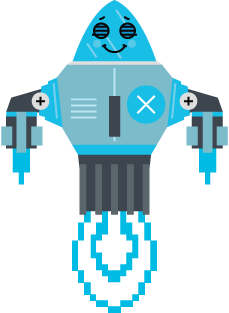
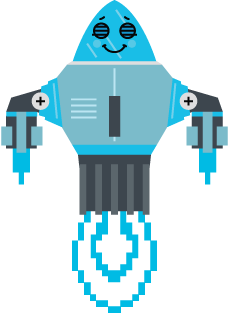
created simple bot with hotfixes and many bugs

Changed region(s): [[0.5502, 0.2588, 0.7336, 0.4026]]

diff --git a/vendor/js/ApiAi.min.js b/vendor/js/ApiAi.min.js
@@ -1,0 +1,17 @@
+/**
+ * Copyright 2017 Google Inc. All Rights Reserved.
+ *
+ * Licensed under the Apache License, Version 2.0 (the "License");
+ * you may not use this file except in compliance with the License.
+ * You may obtain a copy of the License at
+ *
+ *      http://www.apache.org/licenses/LICENSE-2.0
+ *
+ * Unless required by applicable law or agreed to in writing, software
+ * distributed under the License is distributed on an "AS IS" BASIS,
+ * WITHOUT WARRANTIES OR CONDITIONS OF ANY KIND, either express or implied.
+ * See the License for the specific language governing permissions and
+ * limitations under the License.
+ */
+ 
+var ApiAi=function(t){function __webpack_require__(n){if(e[n])return e[n].exports;var r=e[n]={i:n,l:!1,exports:{}};return t[n].call(r.exports,r,r.exports,__webpack_require__),r.l=!0,r.exports}var e={};return __webpack_require__.m=t,__webpack_require__.c=e,__webpack_require__.i=function(t){return t},__webpack_require__.d=function(t,e,n){__webpack_require__.o(t,e)||Object.defineProperty(t,e,{configurable:!1,enumerable:!0,get:n})},__webpack_require__.n=function(t){var e=t&&t.__esModule?function getDefault(){return t.default}:function getModuleExports(){return t};return __webpack_require__.d(e,"a",e),e},__webpack_require__.o=function(t,e){return Object.prototype.hasOwnProperty.call(t,e)},__webpack_require__.p="/target/",__webpack_require__(__webpack_require__.s=8)}([function(t,e,n){"use strict";Object.defineProperty(e,"__esModule",{value:!0});!function(t){var e;!function(t){t[t.EN="en"]="EN",t[t.DE="de"]="DE",t[t.ES="es"]="ES",t[t.PT_BR="pt-BR"]="PT_BR",t[t.ZH_HK="zh-HK"]="ZH_HK",t[t.ZH_CN="zh-CN"]="ZH_CN",t[t.ZH_TW="zh-TW"]="ZH_TW",t[t.NL="nl"]="NL",t[t.FR="fr"]="FR",t[t.IT="it"]="IT",t[t.JA="ja"]="JA",t[t.KO="ko"]="KO",t[t.PT="pt"]="PT",t[t.RU="ru"]="RU",t[t.UK="uk"]="UK"}(e=t.AVAILABLE_LANGUAGES||(t.AVAILABLE_LANGUAGES={})),t.VERSION="2.0.0-beta.20",t.DEFAULT_BASE_URL="https://api.api.ai/v1/",t.DEFAULT_API_VERSION="20150910",t.DEFAULT_CLIENT_LANG=e.EN}(e.ApiAiConstants||(e.ApiAiConstants={}))},function(t,e,n){"use strict";var r=this&&this.__extends||function(){var t=Object.setPrototypeOf||{__proto__:[]}instanceof Array&&function(t,e){t.__proto__=e}||function(t,e){for(var n in e)e.hasOwnProperty(n)&&(t[n]=e[n])};return function(e,n){function __(){this.constructor=e}t(e,n),e.prototype=null===n?Object.create(n):(__.prototype=n.prototype,new __)}}();Object.defineProperty(e,"__esModule",{value:!0});var i=function(t){function ApiAiBaseError(e){var n=t.call(this,e)||this;return n.message=e,n.stack=(new Error).stack,n}return r(ApiAiBaseError,t),ApiAiBaseError}(Error);e.ApiAiBaseError=i;var o=function(t){function ApiAiClientConfigurationError(e){var n=t.call(this,e)||this;return n.name="ApiAiClientConfigurationError",n}return r(ApiAiClientConfigurationError,t),ApiAiClientConfigurationError}(i);e.ApiAiClientConfigurationError=o;var s=function(t){function ApiAiRequestError(e,n){void 0===n&&(n=null);var r=t.call(this,e)||this;return r.message=e,r.code=n,r.name="ApiAiRequestError",r}return r(ApiAiRequestError,t),ApiAiRequestError}(i);e.ApiAiRequestError=s},function(t,e,n){"use strict";Object.defineProperty(e,"__esModule",{value:!0});var r=n(1),i=n(7),o=function(){function Request(t,e){this.apiAiClient=t,this.options=e,this.uri=this.apiAiClient.getApiBaseUrl()+"query?v="+this.apiAiClient.getApiVersion(),this.requestMethod=i.default.Method.POST,this.headers={Authorization:"Bearer "+this.apiAiClient.getAccessToken()},this.options.lang=this.apiAiClient.getApiLang(),this.options.sessionId=this.apiAiClient.getSessionId()}return Request.handleSuccess=function(t){return Promise.resolve(JSON.parse(t.responseText))},Request.handleError=function(t){var e=new r.ApiAiRequestError(null);try{var n=JSON.parse(t.responseText);e=n.status&&n.status.errorDetails?new r.ApiAiRequestError(n.status.errorDetails,n.status.code):new r.ApiAiRequestError(t.statusText,t.status)}catch(n){e=new r.ApiAiRequestError(t.statusText,t.status)}return Promise.reject(e)},Request.prototype.perform=function(t){void 0===t&&(t=null);var e=t||this.options;return i.default.ajax(this.requestMethod,this.uri,e,this.headers).then(Request.handleSuccess.bind(this)).catch(Request.handleError.bind(this))},Request}();e.default=o},function(t,e,n){"use strict";Object.defineProperty(e,"__esModule",{value:!0});var r=n(0),i=n(1),o=n(5),s=n(6);!function __export(t){for(var n in t)e.hasOwnProperty(n)||(e[n]=t[n])}(n(4));var u=n(0);e.ApiAiConstants=u.ApiAiConstants;var _=function(){function ApiAiClient(t){if(!t||!t.accessToken)throw new i.ApiAiClientConfigurationError("Access token is required for new ApiAi.Client instance");this.accessToken=t.accessToken,this.apiLang=t.lang||r.ApiAiConstants.DEFAULT_CLIENT_LANG,this.apiVersion=t.version||r.ApiAiConstants.DEFAULT_API_VERSION,this.apiBaseUrl=t.baseUrl||r.ApiAiConstants.DEFAULT_BASE_URL,this.sessionId=t.sessionId||this.guid()}return ApiAiClient.prototype.textRequest=function(t,e){if(void 0===e&&(e={}),!t)throw new i.ApiAiClientConfigurationError("Query should not be empty");return e.query=t,new s.default(this,e).perform()},ApiAiClient.prototype.eventRequest=function(t,e,n){if(void 0===e&&(e={}),void 0===n&&(n={}),!t)throw new i.ApiAiClientConfigurationError("Event name can not be empty");return n.event={name:t,data:e},new o.EventRequest(this,n).perform()},ApiAiClient.prototype.getAccessToken=function(){return this.accessToken},ApiAiClient.prototype.getApiVersion=function(){return this.apiVersion?this.apiVersion:r.ApiAiConstants.DEFAULT_API_VERSION},ApiAiClient.prototype.getApiLang=function(){return this.apiLang?this.apiLang:r.ApiAiConstants.DEFAULT_CLIENT_LANG},ApiAiClient.prototype.getApiBaseUrl=function(){return this.apiBaseUrl?this.apiBaseUrl:r.ApiAiConstants.DEFAULT_BASE_URL},ApiAiClient.prototype.setSessionId=function(t){this.sessionId=t},ApiAiClient.prototype.getSessionId=function(){return this.sessionId},ApiAiClient.prototype.guid=function(){var t=function(){return Math.floor(65536*(1+Math.random())).toString(16).substring(1)};return t()+t()+"-"+t()+"-"+t()+"-"+t()+"-"+t()+t()+t()},ApiAiClient}();e.ApiAiClient=_},function(t,e,n){"use strict";Object.defineProperty(e,"__esModule",{value:!0});!function(t){!function(t){t[t.ERR_NETWORK=0]="ERR_NETWORK",t[t.ERR_AUDIO=1]="ERR_AUDIO",t[t.ERR_SERVER=2]="ERR_SERVER",t[t.ERR_CLIENT=3]="ERR_CLIENT"}(t.ERROR||(t.ERROR={}));!function(t){t[t.MSG_WAITING_MICROPHONE=0]="MSG_WAITING_MICROPHONE",t[t.MSG_MEDIA_STREAM_CREATED=1]="MSG_MEDIA_STREAM_CREATED",t[t.MSG_INIT_RECORDER=2]="MSG_INIT_RECORDER",t[t.MSG_RECORDING=3]="MSG_RECORDING",t[t.MSG_SEND=4]="MSG_SEND",t[t.MSG_SEND_EMPTY=5]="MSG_SEND_EMPTY",t[t.MSG_SEND_EOS_OR_JSON=6]="MSG_SEND_EOS_OR_JSON",t[t.MSG_WEB_SOCKET=7]="MSG_WEB_SOCKET",t[t.MSG_WEB_SOCKET_OPEN=8]="MSG_WEB_SOCKET_OPEN",t[t.MSG_WEB_SOCKET_CLOSE=9]="MSG_WEB_SOCKET_CLOSE",t[t.MSG_STOP=10]="MSG_STOP",t[t.MSG_CONFIG_CHANGED=11]="MSG_CONFIG_CHANGED"}(t.EVENT||(t.EVENT={}))}(e.IStreamClient||(e.IStreamClient={}))},function(t,e,n){"use strict";var r=this&&this.__extends||function(){var t=Object.setPrototypeOf||{__proto__:[]}instanceof Array&&function(t,e){t.__proto__=e}||function(t,e){for(var n in e)e.hasOwnProperty(n)&&(t[n]=e[n])};return function(e,n){function __(){this.constructor=e}t(e,n),e.prototype=null===n?Object.create(n):(__.prototype=n.prototype,new __)}}();Object.defineProperty(e,"__esModule",{value:!0});var i=n(2),o=function(t){function EventRequest(){return null!==t&&t.apply(this,arguments)||this}return r(EventRequest,t),EventRequest}(i.default);e.EventRequest=o},function(t,e,n){"use strict";var r=this&&this.__extends||function(){var t=Object.setPrototypeOf||{__proto__:[]}instanceof Array&&function(t,e){t.__proto__=e}||function(t,e){for(var n in e)e.hasOwnProperty(n)&&(t[n]=e[n])};return function(e,n){function __(){this.constructor=e}t(e,n),e.prototype=null===n?Object.create(n):(__.prototype=n.prototype,new __)}}();Object.defineProperty(e,"__esModule",{value:!0});var i=n(2),o=function(t){function TextRequest(){return null!==t&&t.apply(this,arguments)||this}return r(TextRequest,t),TextRequest}(i.default);e.default=o},function(t,e,n){"use strict";Object.defineProperty(e,"__esModule",{value:!0});var r=function(){function XhrRequest(){}return XhrRequest.ajax=function(t,e,n,r,i){return void 0===n&&(n=null),void 0===r&&(r=null),void 0===i&&(i={}),new Promise(function(o,s){var u=XhrRequest.createXMLHTTPObject(),_=e,a=null;if(n&&t===XhrRequest.Method.GET){_+="?";var c=0;for(var p in n)n.hasOwnProperty(p)&&(c++&&(_+="&"),_+=encodeURIComponent(p)+"="+encodeURIComponent(n[p]))}else n&&(r||(r={}),r["Content-Type"]="application/json; charset=utf-8",a=JSON.stringify(n));for(var p in i)p in u&&(u[p]=i[p]);if(u.open(XhrRequest.Method[t],_,!0),r)for(var p in r)r.hasOwnProperty(p)&&u.setRequestHeader(p,r[p]);a?u.send(a):u.send(),u.onload=function(){u.status>=200&&u.status<300?o(u):s(u)},u.onerror=function(){s(u)}})},XhrRequest.get=function(t,e,n,r){return void 0===e&&(e=null),void 0===n&&(n=null),void 0===r&&(r={}),XhrRequest.ajax(XhrRequest.Method.GET,t,e,n,r)},XhrRequest.post=function(t,e,n,r){return void 0===e&&(e=null),void 0===n&&(n=null),void 0===r&&(r={}),XhrRequest.ajax(XhrRequest.Method.POST,t,e,n,r)},XhrRequest.put=function(t,e,n,r){return void 0===e&&(e=null),void 0===n&&(n=null),void 0===r&&(r={}),XhrRequest.ajax(XhrRequest.Method.PUT,t,e,n,r)},XhrRequest.delete=function(t,e,n,r){return void 0===e&&(e=null),void 0===n&&(n=null),void 0===r&&(r={}),XhrRequest.ajax(XhrRequest.Method.DELETE,t,e,n,r)},XhrRequest.createXMLHTTPObject=function(){for(var t=null,e=0,n=XhrRequest.XMLHttpFactories;e<n.length;e++){var r=n[e];try{t=r()}catch(t){continue}break}return t},XhrRequest.XMLHttpFactories=[function(){return new XMLHttpRequest},function(){return new window.ActiveXObject("Msxml2.XMLHTTP")},function(){return new window.ActiveXObject("Msxml3.XMLHTTP")},function(){return new window.ActiveXObject("Microsoft.XMLHTTP")}],XhrRequest}();!function(t){!function(t){t[t.GET="GET"]="GET",t[t.POST="POST"]="POST",t[t.PUT="PUT"]="PUT",t[t.DELETE="DELETE"]="DELETE"}(t.Method||(t.Method={}))}(r||(r={})),e.default=r},function(t,e,n){t.exports=n(3)}]);

diff --git a/app/components/bot-helper.js b/app/components/bot-helper.js
@@ -1,4 +1,5 @@
 /*global ya*/
+/*global ApiAi*/
 import Ember from 'ember';
 import config from '../config/environment';
 
@@ -6,6 +7,8 @@ export default Ember.Component.extend({
   classNames: ['bot-helper-wrapper'],
   streamer: null,
   state: 'greeting',
+  modalIds: ['iot', 'voice-recognition', 'vr', 'med-tech', 'transfers', 'open-mobile', 'fintech-events', 'life-style',
+             'srl', 'blockchain', 'digital-ethics', 'banking', 'chat-bot', 'hr-tech'],
 
   didInsertElement() {
     let streamer = new ya.speechkit.SpeechRecognition();
@@ -14,37 +17,40 @@ export default Ember.Component.extend({
 
   actions: {
     startVoiceRecording: function () {
+      const client = new ApiAi.ApiAiClient({accessToken: config.ApiAiAPIKey});
       window.ya.speechkit.settings.apikey = config.speechkitAPIKey;
       this.get('streamer').start({
         initCallback: () => {
-          this.set('state', 'greeting-to-recording');
-          Ember.run.later(this, function () {
-            this.set('state', 'recording');
-          }, 5000);
-          console.log("Началась запись звука.");
+          this.set('state', 'recording');
         },
-        // Данная функция вызывается многократно.
-        // Ей передаются промежуточные результаты распознавания.
-        // После остановки распознавания этой функции
-        // будет передан финальный результат.
-        dataCallback: function (text, done, merge, words) {
+        dataCallback: (text, done, merge, words) => {
           if (done){
-            console.log("Распознанный текст: " + text);
+            const promise = client.textRequest(text);
+            promise.then ((serverResponse) => {
+              const modalIds = this.get('modalIds');
+              const result = serverResponse.result.fulfillment.speech;
+              if (modalIds.indexOf(result) !== -1) {
+                Ember.$(`#${result}`).click();
+              } else {
+                let custom = Ember.Object.create({
+                  id: 'chat-bot',
+                  title: 'Мой ответ',
+                  content: `<p>${result}</p>`
+                });
+                this.set('modalItem', custom);
+                this.toggleProperty('isModalOpen');
+              }
+            }).catch(function (error) {
+              console.log(error);
+            });
           }
         },
-        // Вызывается при возникновении ошибки (например, если передан неверный API-ключ).
         errorCallback: function (err) {
           console.log("Возникла ошибка: " + err);
         },
-        // Будет вызвана после остановки распознавания.
         stopCallback: () => {
-          this.set('state', 'recording-to-waiting');
-          Ember.run.later(this, function () {
-            this.set('state', 'greeting');
-          }, 5000);
-          console.log("Запись звука прекращена.");
+          this.set('state', 'greeting');
         },
-        // Возвращать ли промежуточные результаты.
         particialResults: false,
         utteranceSilence: 60
       });

diff --git a/app/components/modal-dialog.js b/app/components/modal-dialog.js
@@ -4,34 +4,35 @@ import Ember from 'ember';
 export default Ember.Component.extend({
   isOpen: false,
   currentSoundIndex: 0,
-  isPlaying: false,
 
   isOpenObserver: Ember.observer('isModalOpen', function () {
     if (this.get('isModalOpen')){
       this.set('isOpen', true);
       Ember.run.later(this, () => {
         let sounds = this.get('item.sounds');
-        let item = this.get('item');
-        let soundsNames = sounds.map(function (sound) {
-          return {name: sound, path: `sounds/${item.id}/`};
-        });
-        ion.sound.destroy();
-        ion.sound({
-          sounds: soundsNames,
-          preload: true,
-          ended_callback: () => {
-            let currentSoundIndex = this.get('currentSoundIndex');
-            if (currentSoundIndex + 1 < sounds.length){
-              this.set('currentSoundIndex', currentSoundIndex + 1);
-              ion.sound.play(sounds[currentSoundIndex + 1]);
-            } else {
-              this.set('isPlaying', false);
-              this.set('currentSoundIndex', 0);
+        if (sounds !== undefined){
+          let item = this.get('item');
+          let soundsNames = sounds.map(function (sound) {
+            return {name: sound, path: `sounds/${item.id}/`};
+          });
+          ion.sound.destroy();
+          ion.sound({
+            sounds: soundsNames,
+            preload: true,
+            ended_callback: () => {
+              let currentSoundIndex = this.get('currentSoundIndex');
+              if (currentSoundIndex + 1 < sounds.length){
+                this.set('currentSoundIndex', currentSoundIndex + 1);
+                ion.sound.play(sounds[currentSoundIndex + 1]);
+              } else {
+                this.set('isPlaying', false);
+                this.set('currentSoundIndex', 0);
+              }
             }
-          }
-        });
-        ion.sound.play(sounds[0]);
-        this.set('isPlaying', true);
+          });
+          ion.sound.play(sounds[0]);
+          this.set('isPlaying', true);
+        }
       }, 1000);
     }
   }),
@@ -48,9 +49,12 @@ export default Ember.Component.extend({
     close: function () {
       let sounds = this.get('item.sounds');
       let currentSoundIndex = this.get('currentSoundIndex');
-      ion.sound.stop(sounds[currentSoundIndex]);
+      if (sounds !== undefined){
+        ion.sound.stop(sounds[currentSoundIndex]);
+      }
       this.set('isOpen', false);
       this.set('currentSoundIndex', 0);
+      this.set('isPlaying', false);
       Ember.run.later(this, function () {
         this.toggleProperty('isModalOpen');
       }, 600);

diff --git a/app/styles/components/bot-helper.sass b/app/styles/components/bot-helper.sass
@@ -7,22 +7,30 @@
   #bot
     width: 312px
     height: 460px
-    &.greeting
-      background: url("/images/components/bot-helper/bot_greeting.gif") center no-repeat
-      background-size: contain
-    &.greeting-to-recording
-      background: url("/images/components/bot-helper/bot_greeting_to_recording.gif") center no-repeat
-      background-size: contain
-    &.recording
-      background: url("/images/components/bot-helper/bot_recording.gif") center no-repeat
-      background-size: contain
-    &.recording-to-waiting
-      background: url("/images/components/bot-helper/bot_recording_to_waiting.gif") center no-repeat
-      background-size: contain
+    background: url("/images/bot.png") center no-repeat
+    background-size: contain
+    //&.greeting
+    //  background: url("/images/components/bot-helper/bot_greeting.gif") center no-repeat
+    //  background-size: contain
+    //&.greeting-to-recording
+    //  background: url("/images/components/bot-helper/bot_greeting_to_recording.gif") center no-repeat
+    //  background-size: contain
+    //&.recording
+    //  background: url("/images/components/bot-helper/bot_recording.gif") center no-repeat
+    //  background-size: contain
+    //&.recording-to-waiting
+    //  background: url("/images/components/bot-helper/bot_recording_to_waiting.gif") center no-repeat
+    //  background-size: contain
   #button
     width: 45px
     height: 45px
     cursor: pointer
     position: absolute
-    top: 210px
-    right: 100px
+    top: 130px
+    right: 90px
+    &.play
+      background: url("/images/play.png") center no-repeat
+      background-size: contain
+    &.stop
+      background: url("/images/pause.png") center no-repeat
+      background-size: contain

diff --git a/ember-cli-build.js b/ember-cli-build.js
@@ -11,6 +11,7 @@ module.exports = function(defaults) {
   app.import("bower_components/animate.css/animate.min.css");
   app.import("bower_components/wow/dist/wow.min.js");
   app.import("bower_components/ion-sound/js/ion.sound.min.js");
+  app.import("vendor/js/ApiAi.min.js");
 
   return app.toTree();
 };

diff --git a/config/environment.js b/config/environment.js
@@ -26,6 +26,7 @@ module.exports = function(environment) {
 
   if (environment === 'development') {
     ENV.speechkitAPIKey = '683fc7b1-1e8f-4a17-a536-a0342e61cbd5';
+    ENV.ApiAiAPIKey = 'd1d3385de92a47ddbb06f74035f2fd33';
   }
 
   if (environment === 'test') {

diff --git a/app/controllers/index.js b/app/controllers/index.js
@@ -3,6 +3,7 @@ import Ember from 'ember';
 export default Ember.Controller.extend({
   isModalOpen: false,
   modalItem: null,
+  isPlaying: false,
 
   actions: {
     openModal: function (item) {

diff --git a/app/styles/components/modal-dialog.sass b/app/styles/components/modal-dialog.sass
@@ -8,7 +8,7 @@
   position: fixed
   z-index: 6
   top: 50%
-  right: 300px
+  right: 340px
   margin: -350px 0
   width: 70%
   height: 700px
